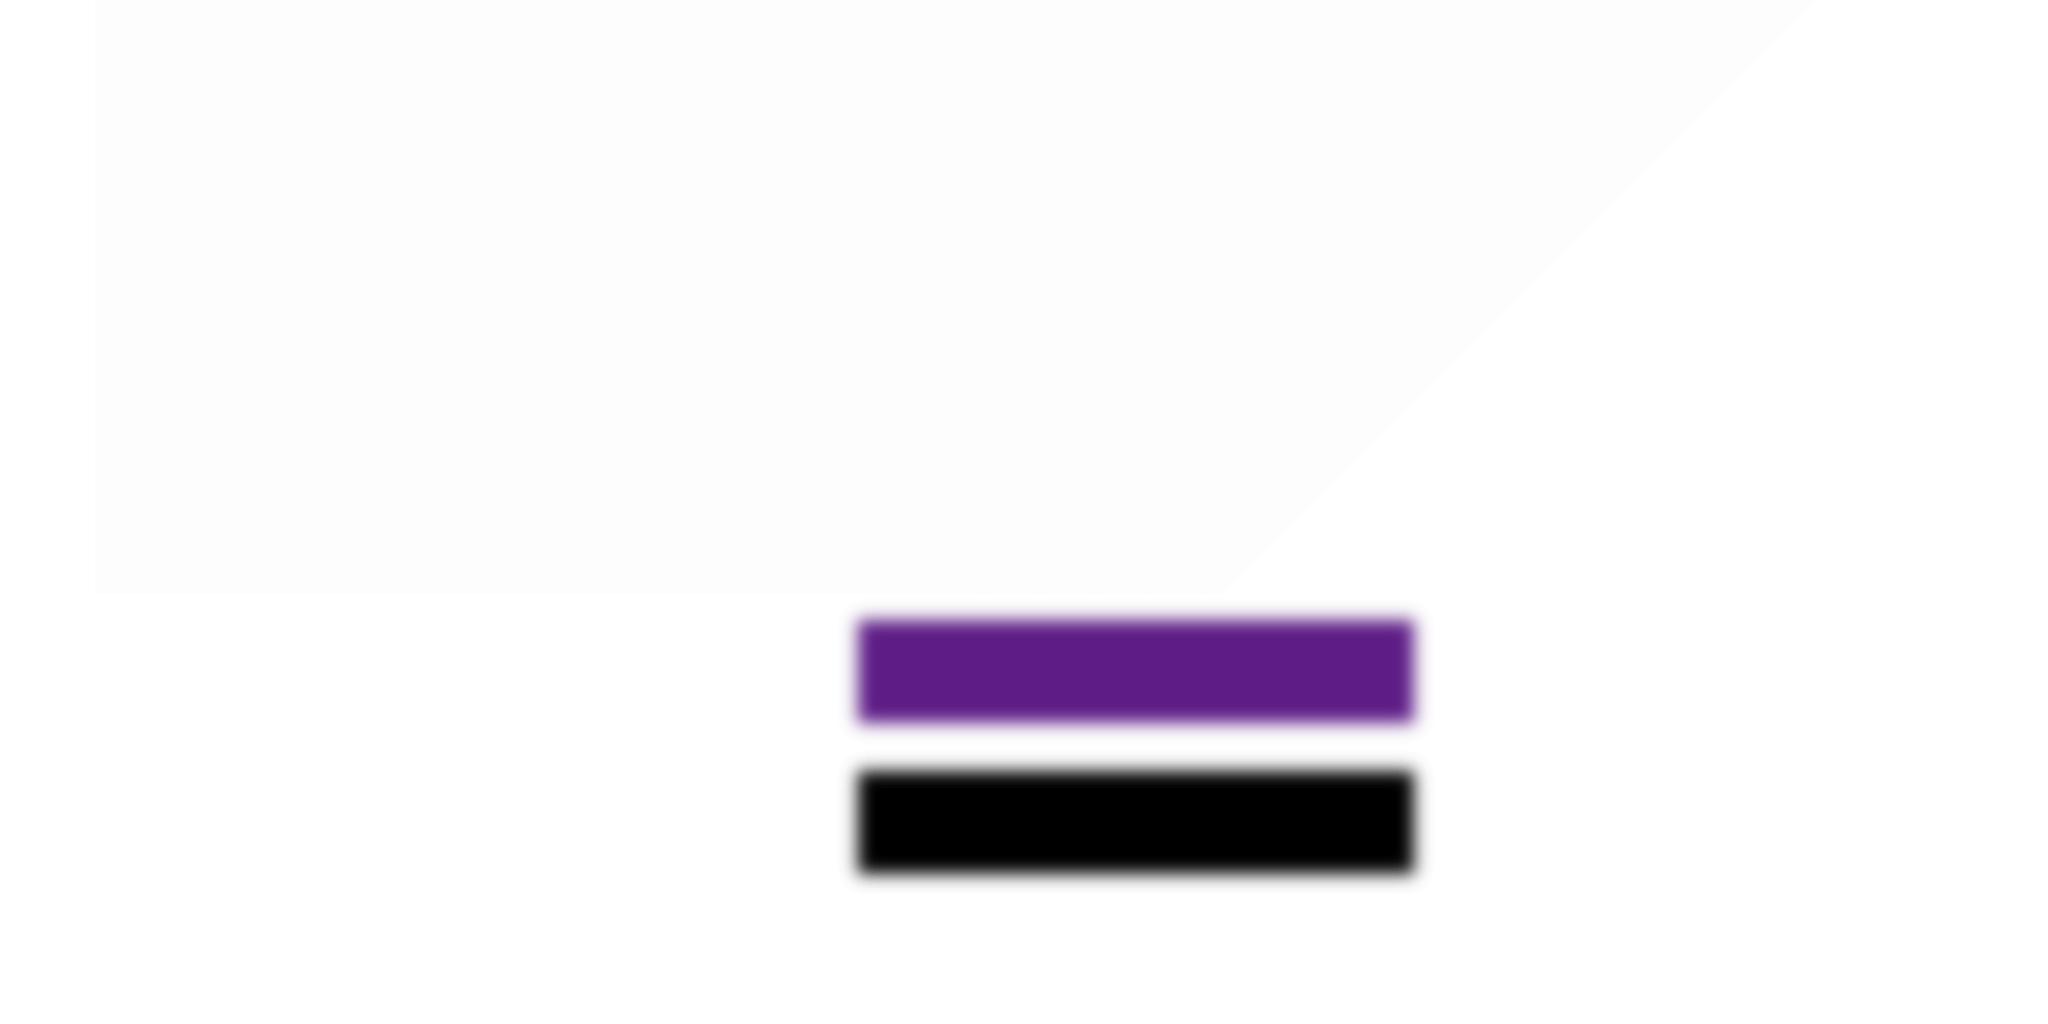
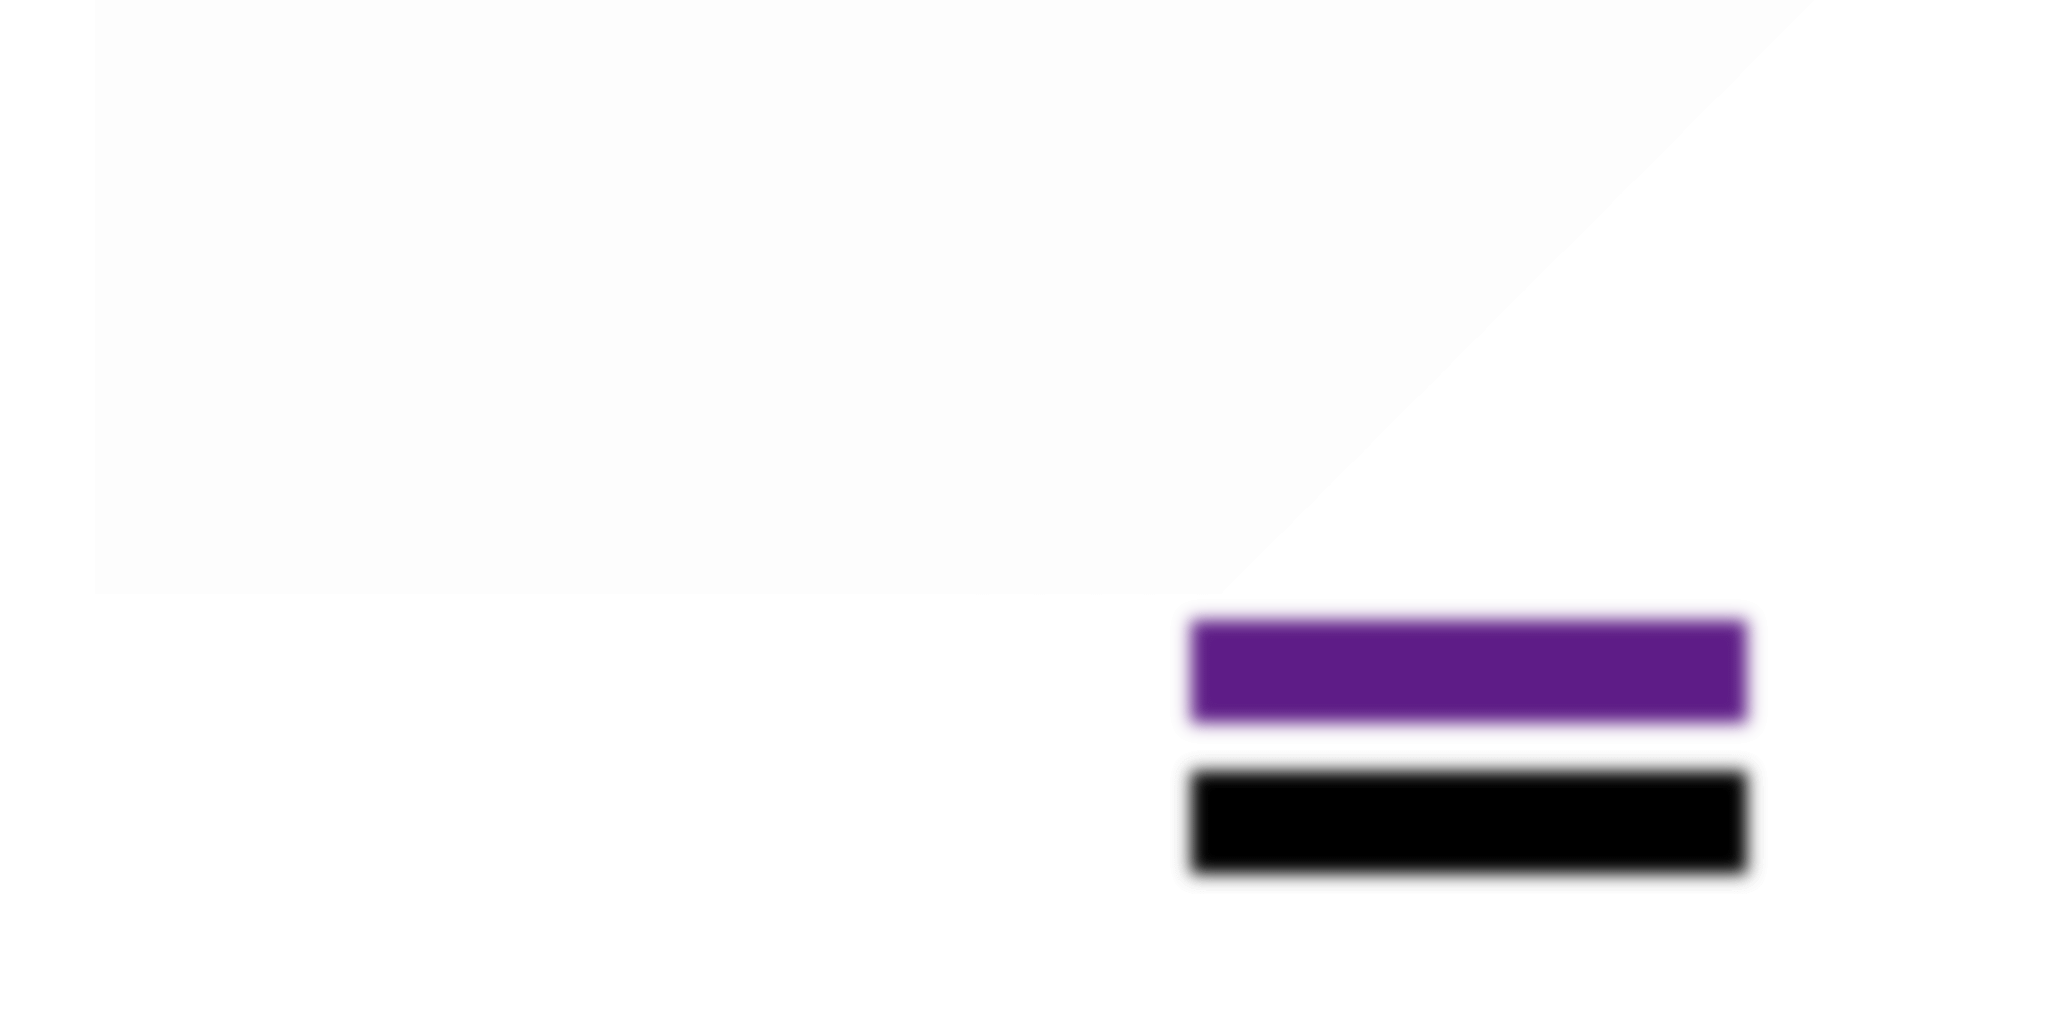
friday updates

Changed region(s): [[0.4062, 0.5938, 0.5938, 0.875], [0.6875, 0.5938, 0.875, 0.875]]

diff --git a/demopage/BSW/BSWH-LD_Icon_Animations/img/320x50/index.js b/demopage/BSW/BSWH-LD_Icon_Animations/img/320x50/index.js
@@ -962,14 +962,14 @@ if (reversed == null) { reversed = false; }
 
 	// Layer_2
 	this.shape = new cjs.Shape();
[1 lines of base64/hex data omitted]
-	this.shape.setTransform(252.075,0.625);
[1 lines of base64/hex data omitted]
+	this.shape.setTransform(267.25,7.15);
 
 	this.timeline.addTween(cjs.Tween.get(this.shape).wait(1));
 
 	this._renderFirstFrame();
 
-}).prototype = getMCSymbolPrototype(lib.text_02, new cjs.Rectangle(-25.1,-15.6,554.4,32.5), null);
+}).prototype = getMCSymbolPrototype(lib.text_02, new cjs.Rectangle(115.7,-29.6,303.2,73.5), null);
 
 
 (lib.text_01 = function(mode,startPosition,loop,reversed) {
@@ -1534,8 +1534,7 @@ if (reversed == null) { reversed = false; }
 
 	// Txt_Frame_02
 	this.instance_6 = new lib.text_02();
-	this.instance_6.setTransform(138.95,24.2,0.3422,0.3422,0,0,0,252.5,0);
-	this.instance_6.alpha = 0;
+	this.instance_6.setTransform(134.45,21.95,0.4529,0.4529,0,0,0,252.6,0);
 	this.instance_6._off = true;
 
 	var maskedShapeInstanceList = [this.instance_6];
@@ -1544,7 +1543,7 @@ if (reversed == null) { reversed = false; }
 		maskedShapeInstanceList[shapedInstanceItr].mask = mask_2;
 	}
 
-	this.timeline.addTween(cjs.Tween.get(this.instance_6).wait(72).to({_off:false},0).to({alpha:1},13).wait(45).to({alpha:0},8).wait(149));
+	this.timeline.addTween(cjs.Tween.get(this.instance_6).wait(72).to({_off:false},0).wait(58).to({alpha:0},8).wait(149));
 
 	// intro_animation
 	this.instance_7 = new lib.intro_animation("single",0);

diff --git a/demopage/BSW/BSWH-LD_Icon_Animations/img/970x250/index.js b/demopage/BSW/BSWH-LD_Icon_Animations/img/970x250/index.js
@@ -3,7 +3,7 @@
 var p; // shortcut to reference prototypes
 var lib={};var ss={};var img={};
 lib.ssMetadata = [
-		{name:"index_atlas_1", frames: [[0,596,832,311],[0,909,264,76],[1441,596,264,77],[834,896,264,77],[0,0,1814,594],[834,596,605,152],[834,750,612,144]]}
+		{name:"index_atlas_1", frames: [[0,596,1165,203],[1781,754,264,76],[1781,596,264,77],[1781,675,264,77],[0,0,1814,594],[1167,596,605,152],[1167,750,612,144]]}
 ];
 
 
@@ -26,7 +26,7 @@ lib.ssMetadata = [
 
 
 
-(lib.CachedBmp_48 = function() {
+(lib.CachedBmp_58 = function() {
 	this.initialize(ss["index_atlas_1"]);
 	this.gotoAndStop(0);
 }).prototype = p = new cjs.Sprite();
@@ -852,15 +852,15 @@ if (reversed == null) { reversed = false; }
 	cjs.MovieClip.apply(this,[props]);
 
 	// Layer_2
-	this.instance = new lib.CachedBmp_48();
-	this.instance.setTransform(-22.85,-20.85,0.2964,0.2964);
+	this.instance = new lib.CachedBmp_58();
+	this.instance.setTransform(-23.25,-2.9,0.2964,0.2964);
 
 	this.timeline.addTween(cjs.Tween.get(this.instance).wait(85));
 
 	this._renderFirstFrame();
 
 }).prototype = p = new cjs.MovieClip();
-p.nominalBounds = new cjs.Rectangle(-22.8,-20.8,246.60000000000002,92.2);
+p.nominalBounds = new cjs.Rectangle(-23.2,-2.9,345.3,60.199999999999996);
 
 
 (lib.stork_mc = function(mode,startPosition,loop,reversed) {
@@ -1263,7 +1263,7 @@ if (reversed == null) { reversed = false; }
 	this.shape_5.graphics.f("#F3BD46").s().p("AmCCGIgBkMIMGADIkLEJg");
 	this.shape_5.setTransform(1.4,52.45);
 
-	this.timeline.addTween(cjs.Tween.get({}).to({state:[]}).to({state:[{t:this.shape}]},19).to({state:[{t:this.shape_1}]},1).to({state:[{t:this.shape_2}]},1).to({state:[{t:this.shape_3}]},1).to({state:[{t:this.shape_4}]},1).to({state:[{t:this.shape_5}]},1).wait(109));
+	this.timeline.addTween(cjs.Tween.get({}).to({state:[]}).to({state:[{t:this.shape}]},19).to({state:[{t:this.shape_1}]},1).to({state:[{t:this.shape_2}]},1).to({state:[{t:this.shape_3}]},1).to({state:[{t:this.shape_4}]},1).to({state:[{t:this.shape_5}]},1).to({state:[{t:this.shape_5}]},41).to({state:[]},1).wait(67));
 
 	// head_outline_inner
 	this.shape_6 = new cjs.Shape();
@@ -1408,7 +1408,7 @@ if (reversed == null) { reversed = false; }
 	this.shape_39.graphics.f("#FFFFFF").s().p("AhtBtQABgsAQgoQARgnAegeQAfgeAmgRQApgRAtAAIAACHQgjgBgZAZQgYAYAAAig");
 	this.shape_39.setTransform(22.85,-29.85);
 
-	this.timeline.addTween(cjs.Tween.get({}).to({state:[]}).to({state:[{t:this.shape_37}]},10).to({state:[{t:this.shape_38}]},1).to({state:[{t:this.shape_39}]},1).wait(121));
+	this.timeline.addTween(cjs.Tween.get({}).to({state:[]}).to({state:[{t:this.shape_37}]},10).to({state:[{t:this.shape_38}]},1).to({state:[{t:this.shape_39}]},1).to({state:[{t:this.shape_39}]},53).to({state:[]},1).wait(67));
 
 	// head
 	this.shape_40 = new cjs.Shape();
@@ -1476,8 +1476,8 @@ if (reversed == null) { reversed = false; }
 	this.shape_55.setTransform(19.025,19.5);
 	this.shape_55._off = true;
 
-	this.timeline.addTween(cjs.Tween.get({}).to({state:[]}).to({state:[{t:this.shape_40}]},1).to({state:[{t:this.shape_41}]},1).to({state:[{t:this.shape_42}]},1).to({state:[{t:this.shape_43}]},1).to({state:[{t:this.shape_44}]},1).to({state:[{t:this.shape_45}]},1).to({state:[{t:this.shape_46}]},1).to({state:[{t:this.shape_47}]},1).to({state:[{t:this.shape_48}]},1).to({state:[{t:this.shape_49}]},1).to({state:[{t:this.shape_50}]},1).to({state:[{t:this.shape_51}]},1).to({state:[{t:this.shape_52}]},1).to({state:[{t:this.shape_53}]},1).to({state:[{t:this.shape_54}]},1).to({state:[{t:this.shape_55}]},1).to({state:[{t:this.shape_55}]},1).to({state:[{t:this.shape_55}]},1).to({state:[{t:this.shape_55}]},1).wait(114));
-	this.timeline.addTween(cjs.Tween.get(this.shape_55).wait(16).to({_off:false},0).wait(117));
+	this.timeline.addTween(cjs.Tween.get({}).to({state:[]}).to({state:[{t:this.shape_40}]},1).to({state:[{t:this.shape_41}]},1).to({state:[{t:this.shape_42}]},1).to({state:[{t:this.shape_43}]},1).to({state:[{t:this.shape_44}]},1).to({state:[{t:this.shape_45}]},1).to({state:[{t:this.shape_46}]},1).to({state:[{t:this.shape_47}]},1).to({state:[{t:this.shape_48}]},1).to({state:[{t:this.shape_49}]},1).to({state:[{t:this.shape_50}]},1).to({state:[{t:this.shape_51}]},1).to({state:[{t:this.shape_52}]},1).to({state:[{t:this.shape_53}]},1).to({state:[{t:this.shape_54}]},1).to({state:[{t:this.shape_55}]},1).to({state:[{t:this.shape_55}]},1).to({state:[{t:this.shape_55}]},1).to({state:[{t:this.shape_55}]},1).to({state:[{t:this.shape_55}]},46).to({state:[]},1).wait(67));
+	this.timeline.addTween(cjs.Tween.get(this.shape_55).wait(16).to({_off:false},0).wait(49).to({_off:true},1).wait(67));
 
 	// strap_yellow
 	this.shape_56 = new cjs.Shape();
@@ -1523,7 +1523,7 @@ if (reversed == null) { reversed = false; }
 	this.shape_65.graphics.f("#FFFFFF").s().p("AnIFoIMwsvIBhBgIswMvg");
 	this.shape_65.setTransform(15.6,73.275);
 
-	this.timeline.addTween(cjs.Tween.get({}).to({state:[]}).to({state:[{t:this.shape_60}]},19).to({state:[{t:this.shape_61}]},1).to({state:[{t:this.shape_62}]},1).to({state:[{t:this.shape_63}]},1).to({state:[{t:this.shape_64}]},1).to({state:[{t:this.shape_65}]},1).wait(109));
+	this.timeline.addTween(cjs.Tween.get({}).to({state:[]}).to({state:[{t:this.shape_60}]},19).to({state:[{t:this.shape_61}]},1).to({state:[{t:this.shape_62}]},1).to({state:[{t:this.shape_63}]},1).to({state:[{t:this.shape_64}]},1).to({state:[{t:this.shape_65}]},1).to({state:[{t:this.shape_65}]},41).to({state:[]},1).wait(67));
 
 	// body_outline
 	this.shape_66 = new cjs.Shape();
@@ -1594,7 +1594,7 @@ if (reversed == null) { reversed = false; }
 	this.shape_82.graphics.f().s("#F3BC46").ss(4,2,1).p("AgIAAIARAA");
 	this.shape_82.setTransform(54.475,25.55);
 
-	this.timeline.addTween(cjs.Tween.get({}).to({state:[]}).to({state:[{t:this.shape_66}]},3).to({state:[{t:this.shape_67}]},1).to({state:[{t:this.shape_68}]},1).to({state:[{t:this.shape_69}]},1).to({state:[{t:this.shape_70}]},1).to({state:[{t:this.shape_71}]},1).to({state:[{t:this.shape_72}]},1).to({state:[{t:this.shape_73}]},1).to({state:[{t:this.shape_74}]},1).to({state:[{t:this.shape_75}]},1).to({state:[{t:this.shape_76}]},1).to({state:[{t:this.shape_77}]},1).to({state:[{t:this.shape_78}]},1).to({state:[{t:this.shape_79}]},1).to({state:[{t:this.shape_80}]},1).to({state:[{t:this.shape_81}]},1).to({state:[{t:this.shape_82}]},1).wait(114));
+	this.timeline.addTween(cjs.Tween.get({}).to({state:[]}).to({state:[{t:this.shape_66}]},3).to({state:[{t:this.shape_67}]},1).to({state:[{t:this.shape_68}]},1).to({state:[{t:this.shape_69}]},1).to({state:[{t:this.shape_70}]},1).to({state:[{t:this.shape_71}]},1).to({state:[{t:this.shape_72}]},1).to({state:[{t:this.shape_73}]},1).to({state:[{t:this.shape_74}]},1).to({state:[{t:this.shape_75}]},1).to({state:[{t:this.shape_76}]},1).to({state:[{t:this.shape_77}]},1).to({state:[{t:this.shape_78}]},1).to({state:[{t:this.shape_79}]},1).to({state:[{t:this.shape_80}]},1).to({state:[{t:this.shape_81}]},1).to({state:[{t:this.shape_82}]},1).to({state:[{t:this.shape_82}]},46).to({state:[]},1).wait(67));
 
 	// baby_body
 	this.shape_83 = new cjs.Shape();
@@ -1665,7 +1665,7 @@ if (reversed == null) { reversed = false; }
[1 lines of base64/hex data omitted]
 	this.shape_99.setTransform(18.5,92.1);
 
-	this.timeline.addTween(cjs.Tween.get({}).to({state:[]}).to({state:[{t:this.shape_83}]},3).to({state:[{t:this.shape_84}]},1).to({state:[{t:this.shape_85}]},1).to({state:[{t:this.shape_86}]},1).to({state:[{t:this.shape_87}]},1).to({state:[{t:this.shape_88}]},1).to({state:[{t:this.shape_89}]},1).to({state:[{t:this.shape_90}]},1).to({state:[{t:this.shape_91}]},1).to({state:[{t:this.shape_92}]},1).to({state:[{t:this.shape_93}]},1).to({state:[{t:this.shape_94}]},1).to({state:[{t:this.shape_95}]},1).to({state:[{t:this.shape_96}]},1).to({state:[{t:this.shape_97}]},1).to({state:[{t:this.shape_98}]},1).to({state:[{t:this.shape_99}]},1).wait(114));
+	this.timeline.addTween(cjs.Tween.get({}).to({state:[]}).to({state:[{t:this.shape_83}]},3).to({state:[{t:this.shape_84}]},1).to({state:[{t:this.shape_85}]},1).to({state:[{t:this.shape_86}]},1).to({state:[{t:this.shape_87}]},1).to({state:[{t:this.shape_88}]},1).to({state:[{t:this.shape_89}]},1).to({state:[{t:this.shape_90}]},1).to({state:[{t:this.shape_91}]},1).to({state:[{t:this.shape_92}]},1).to({state:[{t:this.shape_93}]},1).to({state:[{t:this.shape_94}]},1).to({state:[{t:this.shape_95}]},1).to({state:[{t:this.shape_96}]},1).to({state:[{t:this.shape_97}]},1).to({state:[{t:this.shape_98}]},1).to({state:[{t:this.shape_99}]},1).to({state:[{t:this.shape_99}]},46).to({state:[]},1).wait(67));
 
 	this._renderFirstFrame();
 
@@ -2382,10 +2382,10 @@ if (reversed == null) { reversed = false; }
 
 	// baby
 	this.instance_10 = new lib.baby_mc("synched",0);
-	this.instance_10.setTransform(114.8,121.95,0.9088,0.9088,0,0,0,17.5,56.1);
+	this.instance_10.setTransform(102.8,122.05,0.8752,0.8752,0,0,0,17.5,56.2);
 	this.instance_10._off = true;
 
-	this.timeline.addTween(cjs.Tween.get(this.instance_10).wait(83).to({_off:false},0).wait(66).to({startPosition:62},0).to({alpha:0,startPosition:67},7).wait(132));
+	this.timeline.addTween(cjs.Tween.get(this.instance_10).wait(83).to({_off:false},0).wait(66).to({mode:"single",startPosition:50},0).to({alpha:0},7).wait(132));
 
 	// background_pink
 	this.shape_39 = new cjs.Shape();
@@ -2457,7 +2457,7 @@ if (reversed == null) { reversed = false; }
 
 	// stork
 	this.instance_13 = new lib.stork_mc("synched",0);
-	this.instance_13.setTransform(218.35,123.15,1.1324,1.1324,0,0,0,139.6,123.8);
+	this.instance_13.setTransform(113.45,123.2,0.8678,0.8678,0,0,0,139.6,123.9);
 	this.instance_13._off = true;
 
 	var maskedShapeInstanceList = [this.instance_13];
@@ -2470,7 +2470,7 @@ if (reversed == null) { reversed = false; }
 
 	// Txt_Frame_01
 	this.instance_14 = new lib.text_01("synched",27);
-	this.instance_14.setTransform(467.5,83.75,1.6868,1.6868,0,0,0,0.1,0.1);
+	this.instance_14.setTransform(286.5,82.75,1.6868,1.6868,0,0,0,0.1,0.1);
 	this.instance_14.alpha = 0;
 	this.instance_14._off = true;
 

diff --git a/demopage/BSW/BSWH-LD_Icon_Animations/img/728x90/index.js b/demopage/BSW/BSWH-LD_Icon_Animations/img/728x90/index.js
@@ -2537,10 +2537,10 @@ if (reversed == null) { reversed = false; }
 
 	// baby
 	this.instance_10 = new lib.baby_mc("synched",0);
-	this.instance_10.setTransform(39.9,42.5,0.3799,0.3799,0,0,0,17.1,55.8);
+	this.instance_10.setTransform(32.9,43.55,0.31,0.31,0,0,0,17.1,56);
 	this.instance_10._off = true;
 
-	this.timeline.addTween(cjs.Tween.get(this.instance_10).wait(78).to({_off:false},0).wait(54).to({startPosition:51},0).to({alpha:0,startPosition:55},5).wait(181));
+	this.timeline.addTween(cjs.Tween.get(this.instance_10).wait(78).to({_off:false},0).wait(54).to({regY:55.8,scaleX:0.3799,scaleY:0.3799,x:39.9,y:42.5,startPosition:51},0).to({alpha:0,startPosition:55},5).wait(181));
 
 	// background_pink
 	this.shape_36 = new cjs.Shape();
@@ -2617,7 +2617,7 @@ if (reversed == null) { reversed = false; }
 
 	// Txt_Frame_01
 	this.instance_13 = new lib.text_01("synched",14);
-	this.instance_13.setTransform(227.35,28.6);
+	this.instance_13.setTransform(187.35,28.6);
 	this.instance_13.alpha = 0;
 	this.instance_13._off = true;
 
@@ -2631,7 +2631,7 @@ if (reversed == null) { reversed = false; }
 
 	// stork
 	this.instance_14 = new lib.stork_mc("synched",0);
-	this.instance_14.setTransform(45.35,45.25,0.4327,0.4327,0,0,0,139.7,123.9);
+	this.instance_14.setTransform(33.35,45.25,0.3334,0.3334,0,0,0,139.7,124);
 	this.instance_14._off = true;
 
 	var maskedShapeInstanceList = [this.instance_14];

diff --git a/demopage/BSW/BSWH-LD_Icon_Animations/img/800x175_V2/index.js b/demopage/BSW/BSWH-LD_Icon_Animations/img/800x175_V2/index.js
@@ -26,7 +26,7 @@ lib.ssMetadata = [
 
 
 
-(lib.CachedBmp_57 = function() {
+(lib.CachedBmp_40 = function() {
 	this.initialize(ss["index_atlas_1"]);
 	this.gotoAndStop(0);
 }).prototype = p = new cjs.Sprite();
@@ -859,7 +859,7 @@ if (reversed == null) { reversed = false; }
 	cjs.MovieClip.apply(this,[props]);
 
 	// Layer_2
-	this.instance = new lib.CachedBmp_57();
+	this.instance = new lib.CachedBmp_40();
 	this.instance.setTransform(-65.7,-11.2,0.2964,0.2964);
 
 	this.timeline.addTween(cjs.Tween.get(this.instance).wait(85));
